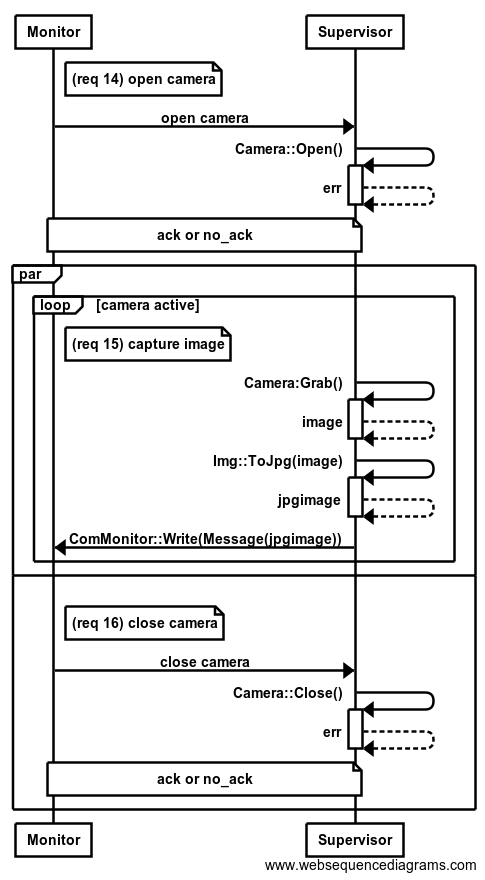
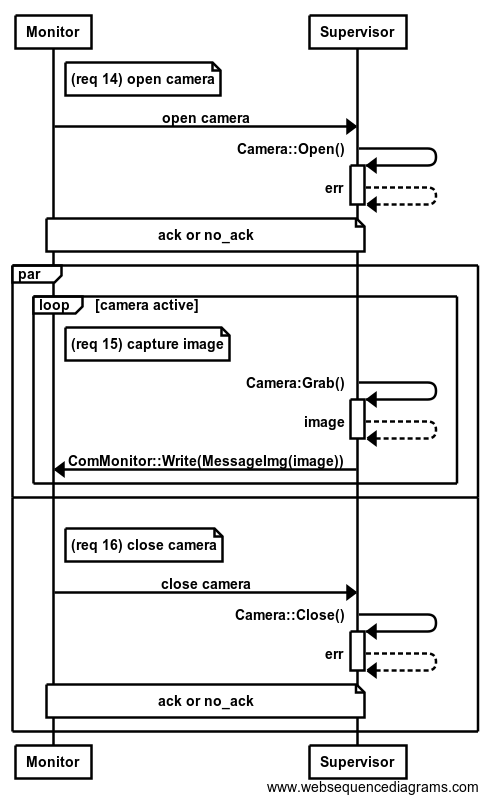
Merge des modifications du repertoire doc depuis la branche master

Changed region(s): [[0.0, 0.0, 0.9897, 0.9975]]

diff --git a/doc/sujets/tex/specifications/src/besoins.tex b/doc/sujets/tex/specifications/src/besoins.tex
@@ -84,7 +84,7 @@ Les figures~\ref{fig:diag1_2} et~\ref{fig:diag3_6}  illustrent le mode de foncti
 
 
 %%%%%%%%%%%%%%%%%%%%%%%%%
-\paragraph{Etablissement du socket.} La connexion entre le moniteur et le superviseur est réalisée site à la demande de l'utilisateur via l'interface graphique. Lorsque la demande est faite, un socket est créé, il faut donc que le serveur soit en attente d'une demande de connexion, c'est-à-dire que la méthode {\tt AcceptClient} de la classe {\tt ComMonitor} soit en cours d'exécution. Cette méthode est bloquante.\\
+\paragraph{Etablissement du socket.} La connexion entre le moniteur et le superviseur est réalisée suite à la demande de l'utilisateur via l'interface graphique. Lorsque la demande est faite, un socket est créé, il faut donc que le serveur soit en attente d'une demande de connexion, c'est-à-dire que la méthode {\tt AcceptClient} de la classe {\tt ComMonitor} soit en cours d'exécution. Cette méthode est bloquante.\\
 
 \req{La connexion entre le moniteur et le superviseur (via le socket) doit être établie suite à la demande de connexion de l'utilisateur.}
 
@@ -245,7 +245,7 @@ Le principe est simple : au démarrage du robot (c.-à-d. quand le robot traite 
 
 \req{Lorsque l'utilisateur demande, via le moniteur, le démarrage avec watchdog, le robot doit démarrer dans ce mode. Un message d'acquittement est retourné au moniteur. En cas d'échec, un message indiquant l'échec est transmis au moniteur.
 
-Une fois le démarrage effectué, le robot doit rester vivant en envoyant régulièrement le message de rechargement du watchdog.}
+Une fois le démarrage effectué, le robot doit rester vivant. Pour cela, il faut que le moniteur envoie régulièrement le message de rechargement du watchdog.}
 
 %alt
 %note right of Monitor
@@ -339,7 +339,7 @@ Les fonctions permettant la manipulation des images sont fournies dans les libra
 \req{La caméra doit être démarrée suite à une demande provenant du moniteur. Si l'ouverture de la  caméra a échoué, il faut envoyer un message au moniteur.}
 
 %%%%%%%%%%%%%%%%%%%%%%%%%
-\paragraph{Capture d'une image (mode nominal).} La méthode {\tt Grab} de {\tt Camera} permet de capturer une image. La compression de l'image se fait à l'aide de la fonction {\tt ToJpg} de {\tt Img}. L'envoi de l'image au moniteur s'effectue normalement par l'envoi d'un message. La fréquence de capture d'une image est fixée par un paramètre lors de l'instanciation d'un objet {\tt Camera}.\\
+\paragraph{Capture d'une image (mode nominal).} La méthode {\tt Grab} de {\tt Camera} permet de capturer une image. L'envoi de l'image au moniteur s'effectue normalement par l'envoi d'un message\footnote{L'image est compressée lors de l'envoi du message.}. La fréquence de capture d'une image est fixée par un paramètre lors de l'instanciation d'un objet {\tt Camera}.\\
 
 \req{Dès que la caméra est ouverte, une image doit être envoyée au moniteur toutes les 100 ms.}
 
